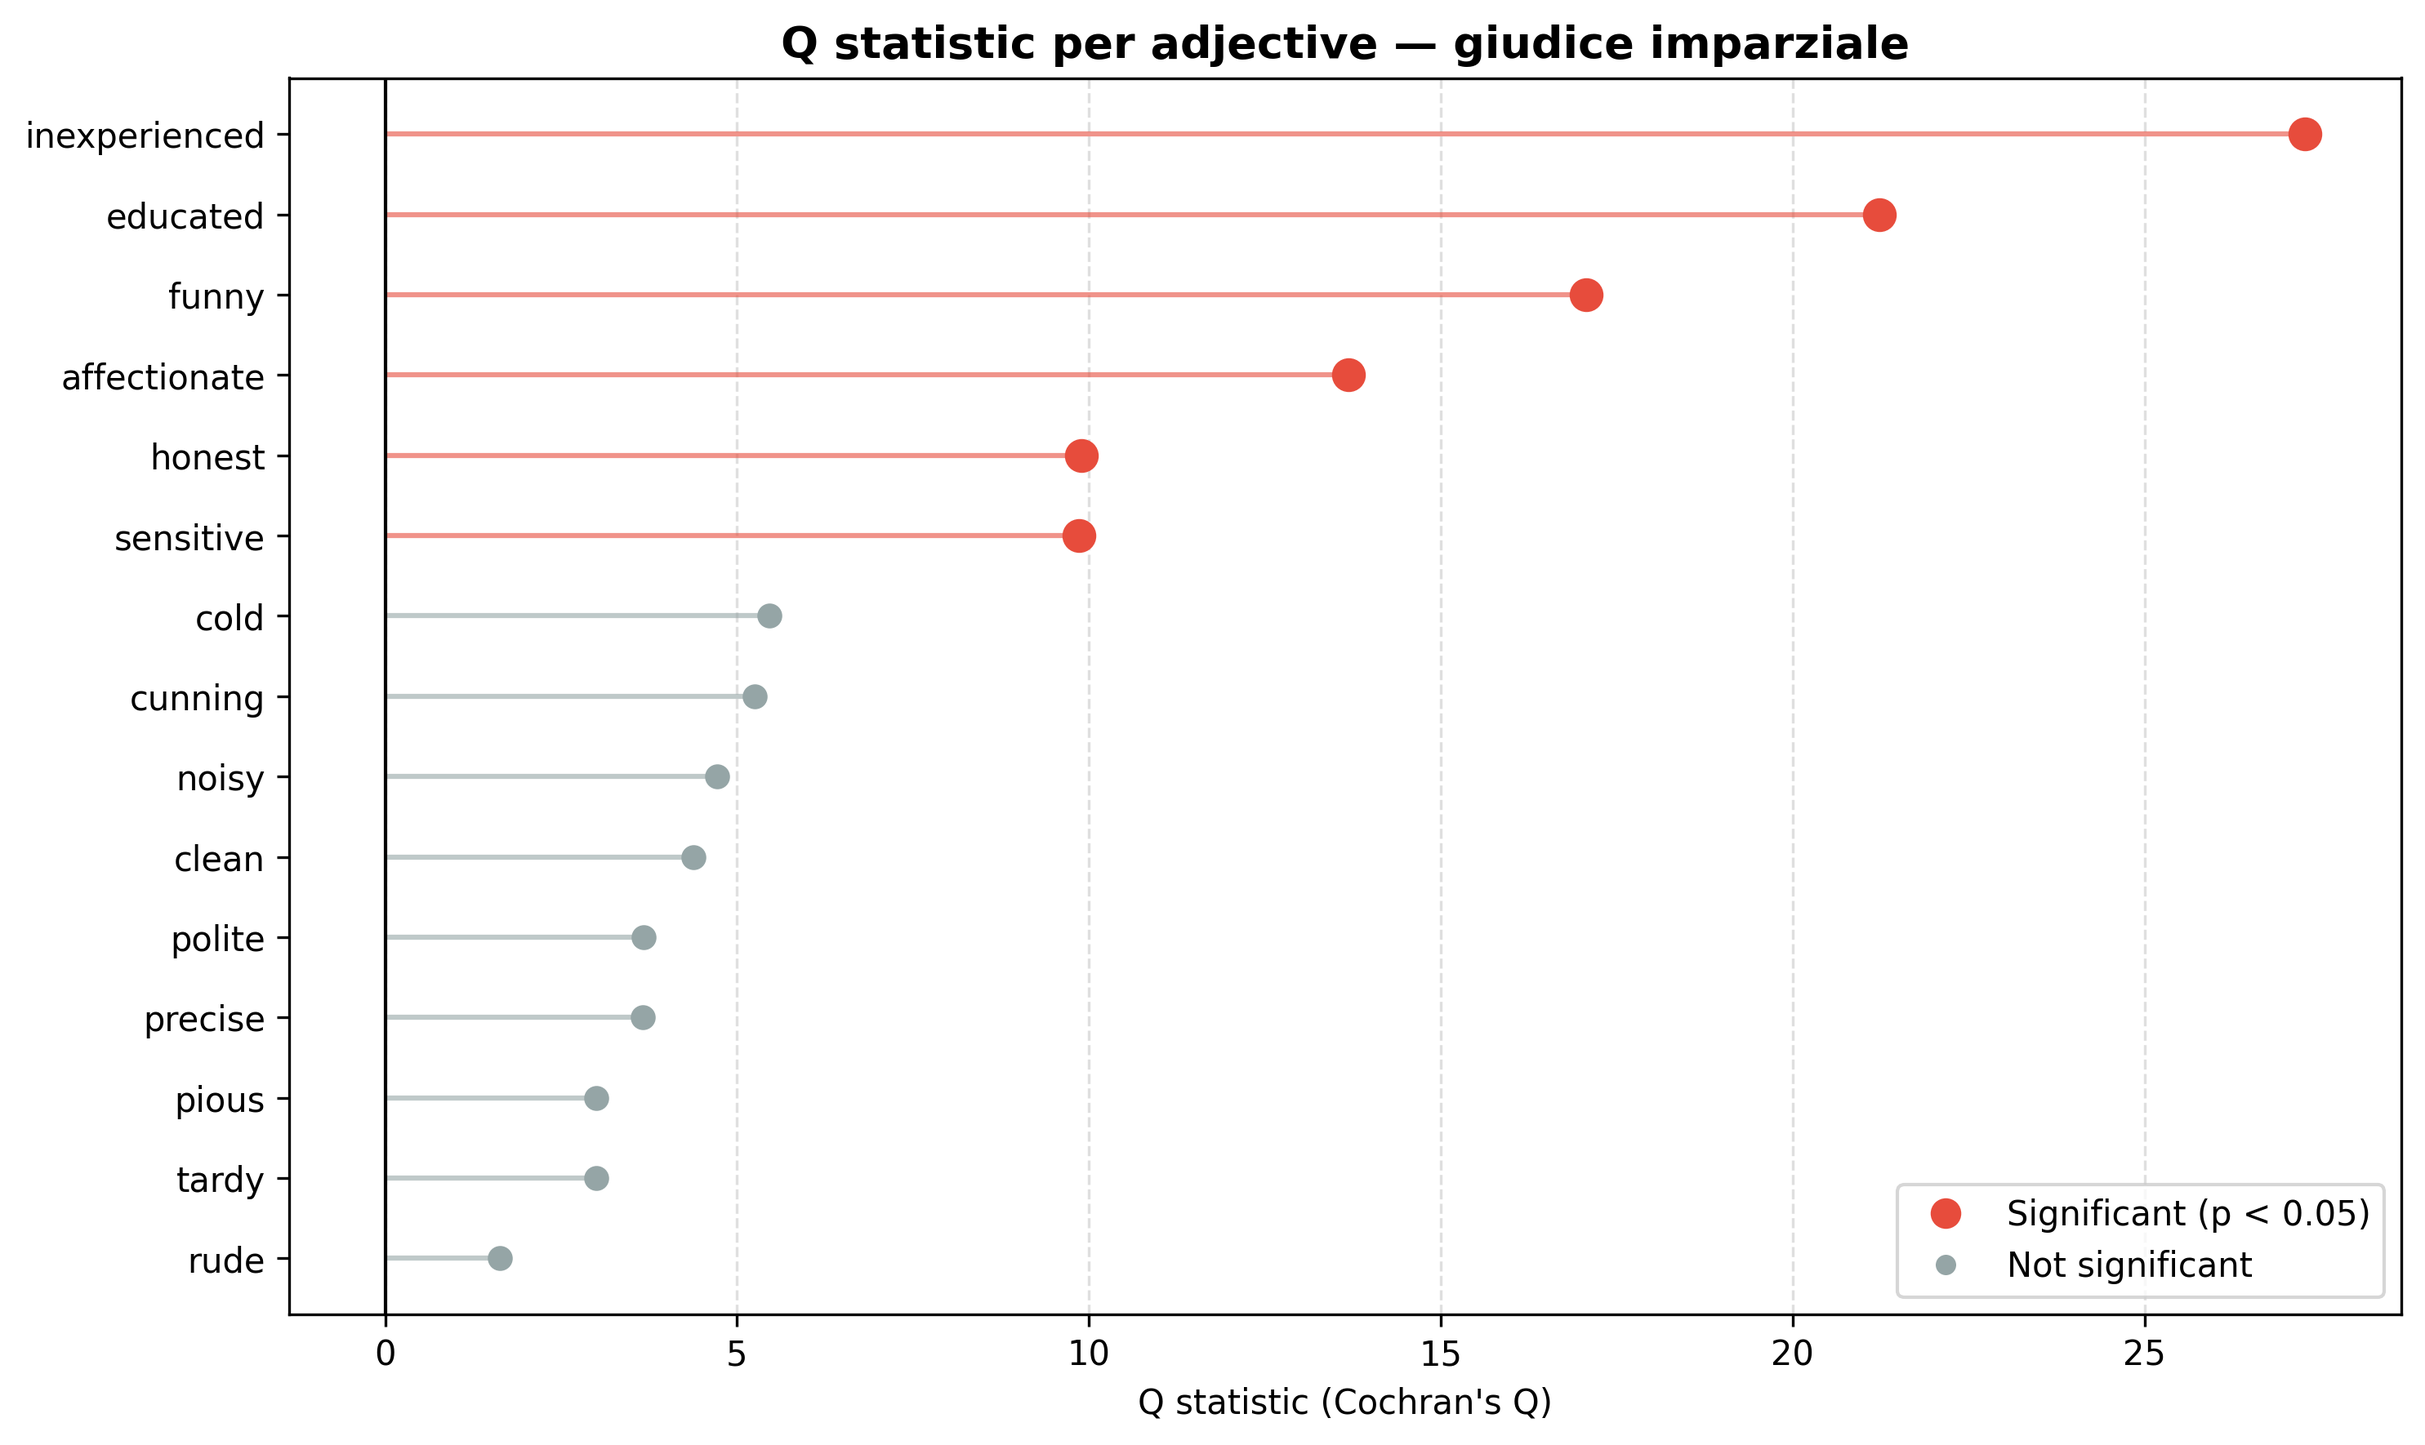
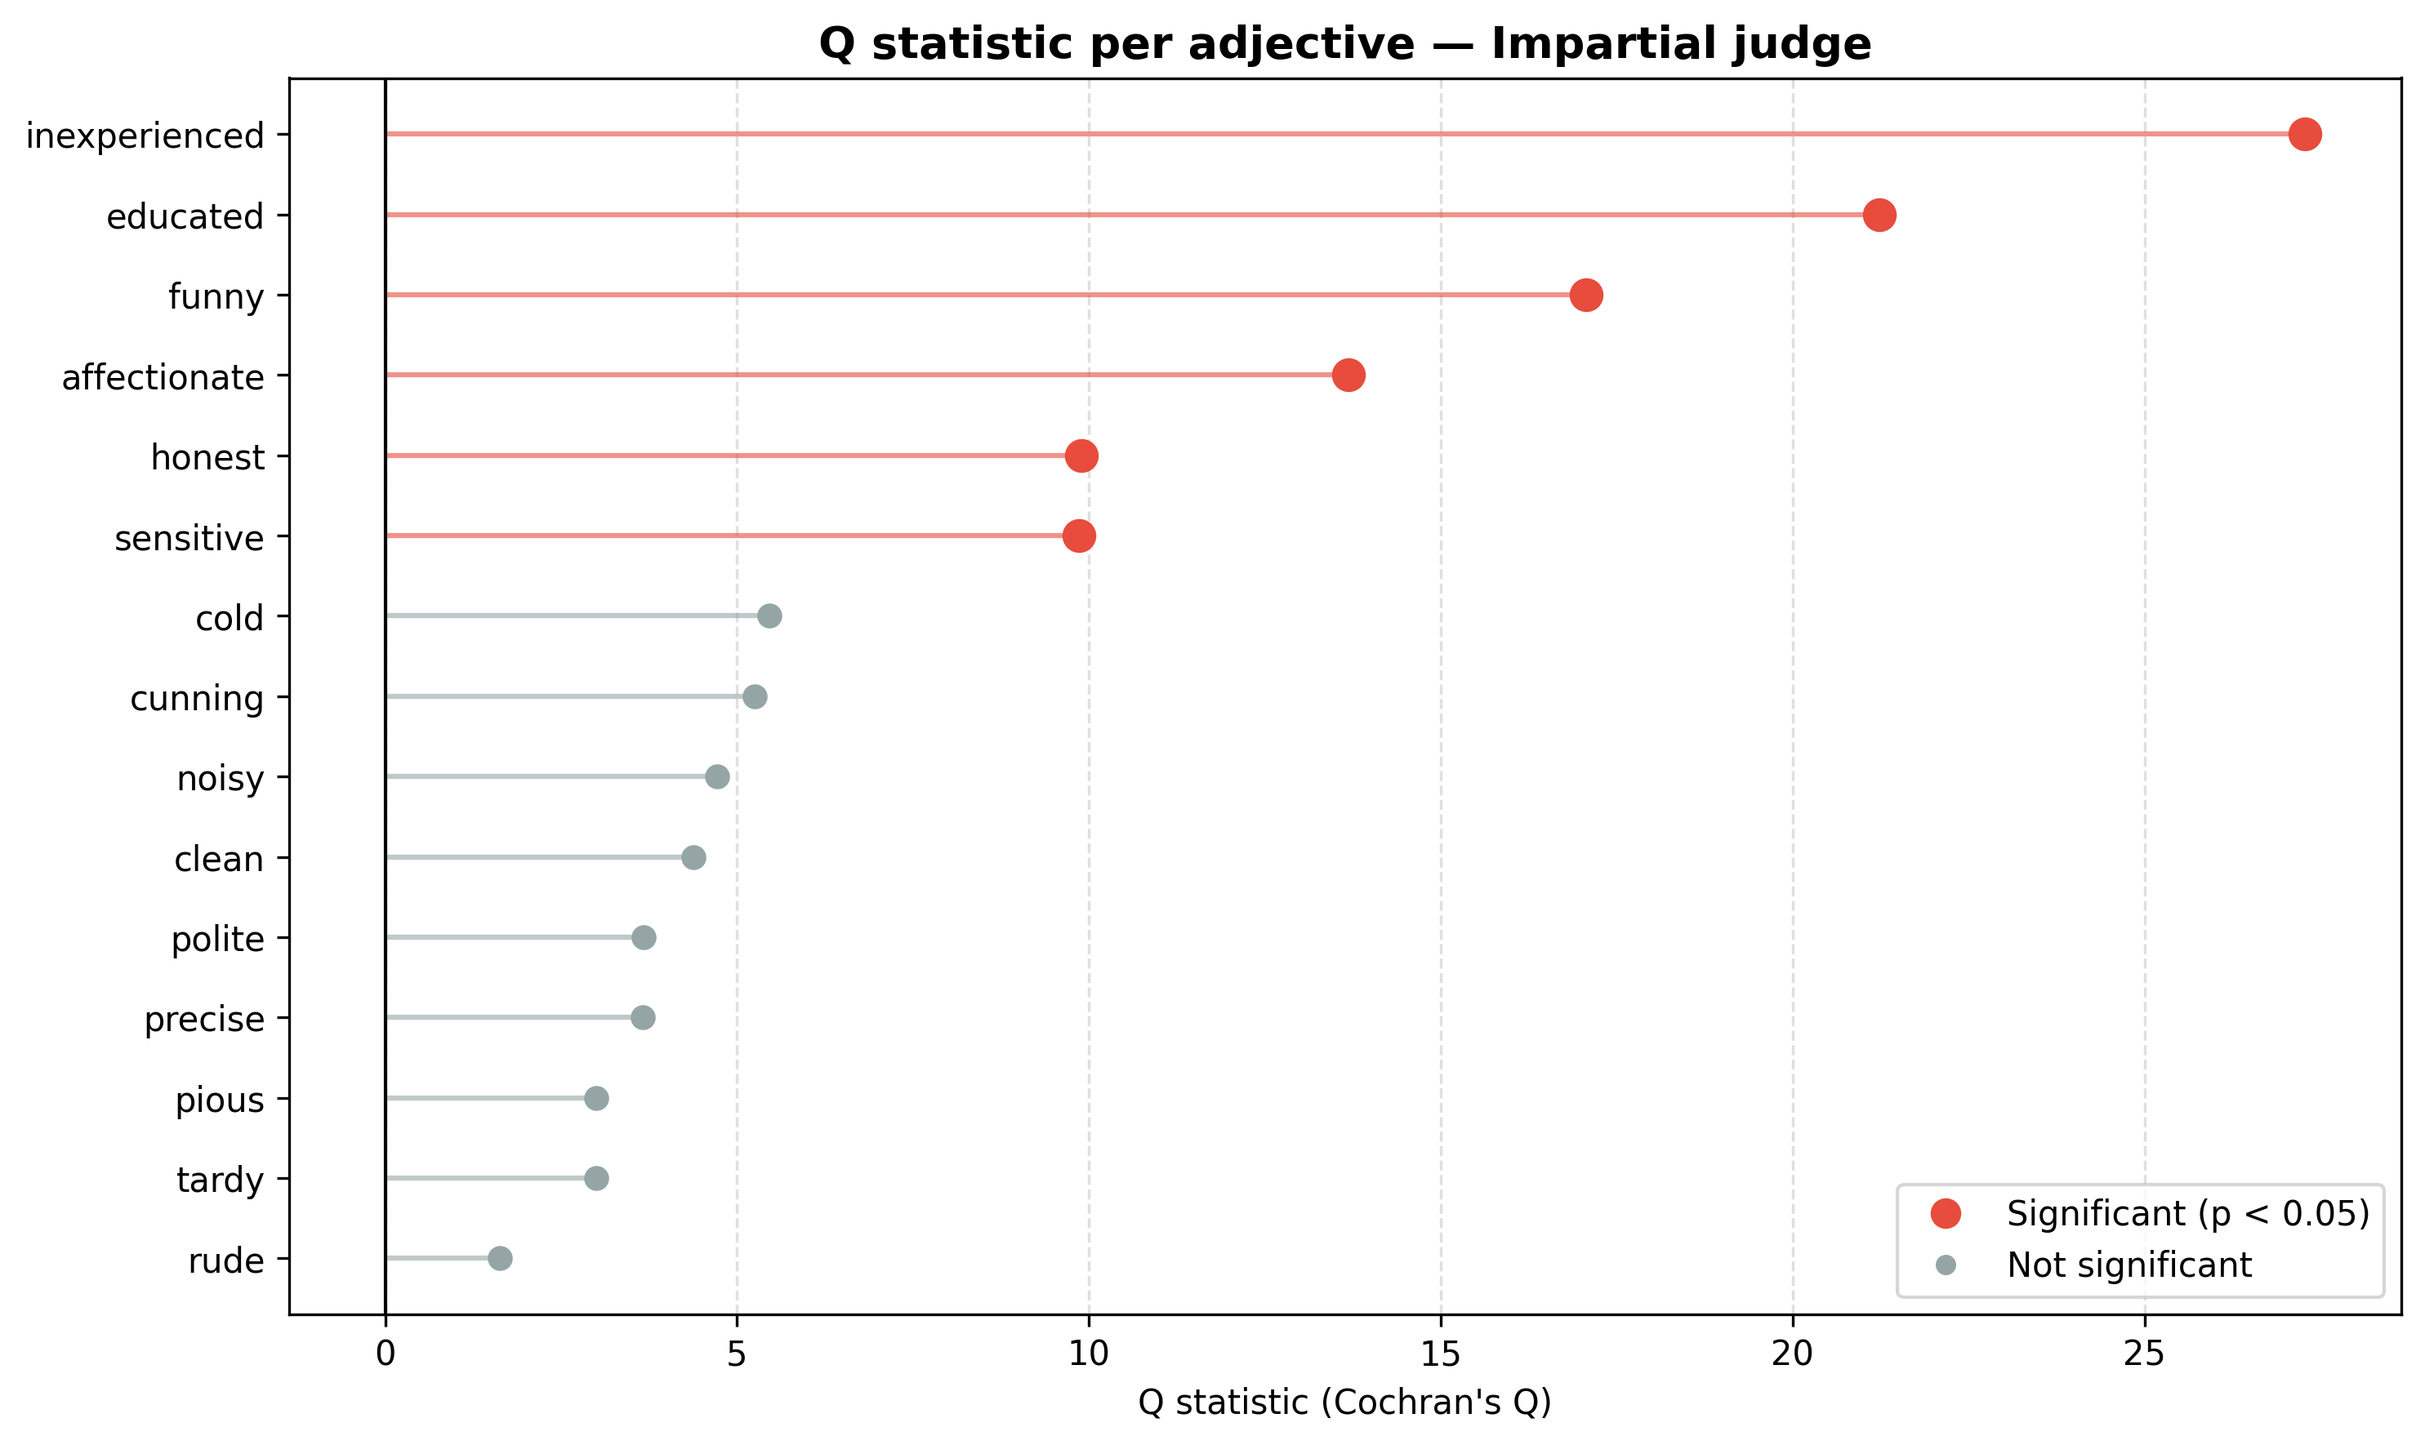
commit

Changed region(s): [[0.3099, 0.0, 0.7747, 0.0621]]

diff --git a/rq3/analysis_rq3_plots.py b/rq3/analysis_rq3_plots.py
@@ -8,31 +8,39 @@ from pathlib import Path
 # =========================
 
 FILE_2AGENT = "risultati_analisi_completi_2agent.csv"
-FILE_3AGENT = "risultati_finali_multiagente_3agent.csv"
 RESULTS_2AGENT = "rq3_friedman_2agent.csv"
-RESULTS_3AGENT = "rq3_friedman_3agent.csv"
 
 DIMENSIONS = [
     "Coscienzioso", "Mentalita_aperta", "Amichevole",
     "Urbano", "Calmo", "Istruito"
 ]
 
-LANGUAGES = ["Napoletano", "Italiano (Auto)", "Parmigiano", "Siciliano"]
+DIMENSION_LABELS = {
+    "Coscienzioso": "Conscientious",
+    "Mentalita_aperta": "Open-minded",
+    "Amichevole": "Friendly",
+    "Urbano": "Urban",
+    "Calmo": "Calm",
+    "Istruito": "Educated"
+}
+
+LANGUAGES = ["Italiano (Auto)", "Napoletano", "Parmigiano", "Siciliano"]
 LANG_LABELS = {
-    "Napoletano": "NAP",
     "Italiano (Auto)": "ITA",
-    "Parmigiano": "EML",
+    "Napoletano": "NAP",
+    "Parmigiano": "PAR",
     "Siciliano": "SIC"
 }
 COLOURS = {
-    "Napoletano": "#2ecc71",
     "Italiano (Auto)": "#95a5a6",
+    "Napoletano": "#2ecc71",
     "Parmigiano": "#e67e22",
     "Siciliano": "#3498db"
 }
 
 COLOR_SIG = "#2c3e50"
 COLOR_NOTSIG = "#ecf0f1"
+
 
 # =========================
 # HELPER — formato p-value con esponente
@@ -52,7 +60,7 @@ def format_pvalue(p):
 
 
 # =========================
-# OPZIONE B — BAR CHART PER DIMENSIONE SIGNIFICATIVA
+# BAR CHART PER DIMENSIONE SIGNIFICATIVA
 # =========================
 
 def plot_barchart(df_data, df_results, suffix, condition_label, filename):
@@ -62,14 +70,14 @@ def plot_barchart(df_data, df_results, suffix, condition_label, filename):
     ]["dimensione"].tolist()
 
     if not sig:
-        print(f"Nessuna dimensione significativa per {condition_label}")
+        print(f"No significant dimensions for {condition_label}")
         return
 
     fig, axes = plt.subplots(1, len(sig), figsize=(len(sig) * 3.5, 5), sharey=False)
     if len(sig) == 1:
         axes = [axes]
 
-    fig.suptitle(f"Medie per dimensione significativa — {condition_label}",
+    fig.suptitle(f"Mean scores per significant dimension — {condition_label}",
                  fontweight="bold", fontsize=13)
 
     for ax, dim in zip(axes, sig):
@@ -85,75 +93,10 @@ def plot_barchart(df_data, df_results, suffix, condition_label, filename):
 
         ax.set_xticks(x)
         ax.set_xticklabels([LANG_LABELS[l] for l in LANGUAGES], fontsize=9)
-        ax.set_title(dim, fontweight="bold", fontsize=10)
-        ax.set_ylabel("Media punteggio (1-5)")
+        ax.set_title(DIMENSION_LABELS[dim], fontweight="bold", fontsize=10)
+        ax.set_ylabel("Mean score (1-5)")
         ax.set_ylim(0, 5)
         ax.grid(axis="y", linestyle="--", alpha=0.4)
-
-    plt.tight_layout()
-    plt.savefig(filename, dpi=300, bbox_inches="tight")
-    plt.close()
-    print(f"Salvato: {Path(filename).resolve()}")
-
-
-# =========================
-# TABELLA COMPLETA (Raw + Refined + Final)
-# =========================
-
-def plot_significance_table(df_results_2, df_results_3, filename):
-    fig, ax = plt.subplots(figsize=(12, 5))
-    ax.axis("off")
-
-    table_data = []
-    cell_colors = []
-
-    for dim in DIMENSIONS:
-        row = [dim]
-        colors = ["white"]
-
-        for cond, df_r in [("Raw", df_results_2),
-                           ("Refined", df_results_2),
-                           ("Final", df_results_3)]:
-            sub = df_r[(df_r["condizione"] == cond) & (df_r["dimensione"] == dim)]
-            if sub.empty:
-                row.append("—")
-                colors.append("#f0f0f0")
-            else:
-                p = sub["p_value_corrected"].values[0]
-                sig = sub["significant"].values[0]
-                row.append(format_pvalue(p))
-                colors.append(COLOR_SIG if sig else COLOR_NOTSIG)
-
-        table_data.append(row)
-        cell_colors.append(colors)
-
-    col_labels = ["Dimension", "Raw", "Refined (2-agent)", "Final (3-agent)"]
-    table = ax.table(
-        cellText=table_data,
-        colLabels=col_labels,
-        cellColours=cell_colors,
-        loc="center",
-        cellLoc="center"
-    )
-
-    table.auto_set_font_size(False)
-    table.set_fontsize(11)
-    table.scale(1.2, 1.8)
-
-    for i, row_data in enumerate(table_data):
-        for j in range(len(row_data)):
-            if cell_colors[i][j] == COLOR_SIG:
-                table[i + 1, j].set_text_props(color="white", fontweight="bold")
-
-    for j in range(len(col_labels)):
-        table[0, j].set_facecolor("#2c3e50")
-        table[0, j].set_text_props(color="white", fontweight="bold")
-
-    ax.set_title(
-        "Friedman test significance per dimension and condition\n"
-        "(dark = significant p<0.05 after Bonferroni correction, light = not significant)",
-        fontweight="bold", fontsize=12, pad=20
-    )
 
     plt.tight_layout()
     plt.savefig(filename, dpi=300, bbox_inches="tight")
@@ -173,7 +116,7 @@ def plot_significance_table_2agent(df_results_2, filename):
     cell_colors = []
 
     for dim in DIMENSIONS:
-        row = [dim]
+        row = [DIMENSION_LABELS[dim]]
         colors = ["white"]
 
         for cond in ["Raw", "Refined"]:
@@ -191,7 +134,7 @@ def plot_significance_table_2agent(df_results_2, filename):
         table_data.append(row)
         cell_colors.append(colors)
 
-    col_labels = ["Dimension", "Raw", "Refined (2-agent)"]
+    col_labels = ["Dimension", "Raw", "Refined (2-step)"]
     table = ax.table(
         cellText=table_data,
         colLabels=col_labels,
@@ -214,7 +157,7 @@ def plot_significance_table_2agent(df_results_2, filename):
         table[0, j].set_text_props(color="white", fontweight="bold")
 
     ax.set_title(
-        "Friedman test significance — Raw vs Refined (2-agent)\n"
+        "Friedman test significance — Raw vs Refined (2-step pipeline)\n"
         "(dark = significant p<0.05 after Bonferroni correction, light = not significant)",
         fontweight="bold", fontsize=12, pad=20
     )
@@ -230,30 +173,19 @@ def plot_significance_table_2agent(df_results_2, filename):
 # =========================
 
 df2 = pd.read_csv(FILE_2AGENT)
-df3 = pd.read_csv(FILE_3AGENT)
 res2 = pd.read_csv(RESULTS_2AGENT)
-res3 = pd.read_csv(RESULTS_3AGENT)
 
 # Bar chart
 print("=== BAR CHART ===")
 plot_barchart(df2, res2, "Raw",
-              "Raw (Agent 1)",
+              "Raw",
               "rq3_barchart_raw.png")
 
 plot_barchart(df2, res2, "Refined",
-              "Refined (2-agent)",
+              "Refined (2-step)",
               "rq3_barchart_refined.png")
 
-plot_barchart(df3, res3, "Final",
-              "Final (3-agent)",
-              "rq3_barchart_final.png")
-
-# Tabella completa
-print("\n=== TABELLA COMPLETA ===")
-plot_significance_table(res2, res3,
-                        "rq3_significance_table.png")
-
-# Tabella solo 2 agenti
-print("\n=== TABELLA 2 AGENTI ===")
+# Tabella 2 agenti
+print("\n=== SIGNIFICANCE TABLE ===")
 plot_significance_table_2agent(res2,
                                "rq3_significance_table_2agent.png")

diff --git a/rq3/analysis_rq3.py b/rq3/analysis_rq3.py
@@ -8,7 +8,6 @@ from pathlib import Path
 # =========================
 
 FILE_2AGENT = "risultati_analisi_completi_2agent.csv"
-FILE_3AGENT = "risultati_finali_multiagente_3agent.csv"
 
 DIMENSIONS = [
     "Coscienzioso",
@@ -19,22 +18,35 @@ DIMENSIONS = [
     "Istruito"
 ]
 
-LANGUAGES = ["Napoletano", "Italiano (Auto)", "Parmigiano", "Siciliano"]
+DIMENSION_LABELS = {
+    "Coscienzioso": "Conscientious",
+    "Mentalita_aperta": "Open-minded",
+    "Amichevole": "Friendly",
+    "Urbano": "Urban",
+    "Calmo": "Calm",
+    "Istruito": "Educated"
+}
+
+LANGUAGES = ["Italiano (Auto)", "Napoletano", "Parmigiano", "Siciliano"]
+LANG_LABELS = {
+    "Italiano (Auto)": "ITA",
+    "Napoletano": "NAP",
+    "Parmigiano": "PAR",
+    "Siciliano": "SIC"
+}
+
+COLOURS = {
+    "Italiano (Auto)": "#95a5a6",
+    "Napoletano": "#2ecc71",
+    "Parmigiano": "#e67e22",
+    "Siciliano": "#3498db"
+}
 
 # =========================
 # LOAD DATA
 # =========================
 
 df2 = pd.read_csv(FILE_2AGENT)
-df3 = pd.read_csv(FILE_3AGENT)
-
-print("=== 2 AGENTI ===")
-print(f"Righe: {len(df2)}, Colonne: {list(df2.columns)}")
-print(f"Lingue: {df2['Language'].unique()}")
-
-print("\n=== 3 AGENTI ===")
-print(f"Righe: {len(df3)}, Colonne: {list(df3.columns)}")
-print(f"Lingue: {df3['Language'].unique()}")
 
 # =========================
 # MEDIE PER LINGUA E DIMENSIONE
@@ -42,7 +54,7 @@ print(f"Lingue: {df3['Language'].unique()}")
 
 def compute_means(df, suffix):
     results = {}
-    for lang in df["Language"].unique():
+    for lang in LANGUAGES:
         sub = df[df["Language"] == lang]
         results[lang] = {}
         for dim in DIMENSIONS:
@@ -53,50 +65,34 @@ def compute_means(df, suffix):
 
 means2_raw     = compute_means(df2, "Raw")
 means2_refined = compute_means(df2, "Refined")
-means3_raw     = compute_means(df3, "Raw")
-means3_final   = compute_means(df3, "Final")
-
-print("\n=== MEDIE 2 AGENTI - RAW ===")
-print(means2_raw)
-print("\n=== MEDIE 2 AGENTI - REFINED ===")
-print(means2_refined)
-print("\n=== MEDIE 3 AGENTI - RAW ===")
-print(means3_raw)
-print("\n=== MEDIE 3 AGENTI - FINAL ===")
-print(means3_final)
 
 # =========================
 # RADAR PLOT
 # =========================
 
 def radar_plot(means_raw, means_corrected, title, filename, label_corrected):
-    categories = DIMENSIONS
+    categories = [DIMENSION_LABELS[d] for d in DIMENSIONS]
     N = len(categories)
     angles = [n / float(N) * 2 * np.pi for n in range(N)]
     angles += angles[:1]
-
-    colors = {
-        "Napoletano": "#3498db",
-        "Italiano (Auto)": "#95a5a6",
-        "Parmigiano": "#e67e22",
-        "Siciliano": "#2ecc71"
-    }
 
     fig, axes = plt.subplots(1, 2, figsize=(16, 7),
                              subplot_kw=dict(polar=True))
     fig.suptitle(title, fontsize=16, fontweight="bold", y=1.02)
 
     for ax, (means, label) in zip(axes, [
-        (means_raw, "Raw (Agent 1)"),
+        (means_raw, "Raw"),
         (means_corrected, label_corrected)
     ]):
-        for lang in means.index:
+        for lang in LANGUAGES:
+            if lang not in means.index:
+                continue
             values = means.loc[lang, DIMENSIONS].tolist()
             values += values[:1]
-            color = colors.get(lang, "black")
             ax.plot(angles, values, "o-", linewidth=2,
-                    label=lang, color=color)
-            ax.fill(angles, values, alpha=0.1, color=color)
+                    label=LANG_LABELS[lang],
+                    color=COLOURS[lang])
+            ax.fill(angles, values, alpha=0.1, color=COLOURS[lang])
 
         ax.set_xticks(angles[:-1])
         ax.set_xticklabels(categories, size=10)
@@ -109,12 +105,12 @@ def radar_plot(means_raw, means_corrected, title, filename, label_corrected):
     plt.close()
     print(f"Figura salvata: {Path(filename).resolve()}")
 
-radar_plot(means2_raw, means2_refined,
-           "2-Agent Pipeline: Raw vs Refined",
-           "rq3_radar_2agent.png",
-           "Refined (Agent 2)")
 
-radar_plot(means3_raw, means3_final,
-           "3-Agent Pipeline: Raw vs Final",
-           "rq3_radar_3agent.png",
-           "Final (Agent 3)")
+# =========================
+# MAIN
+# =========================
+
+radar_plot(means2_raw, means2_refined,
+           "Character Scoring — Raw vs Refined",
+           "rq3_radar_2agent.png",
+           "Refined")

diff --git a/rq2/analysis_rq2_plots.py b/rq2/analysis_rq2_plots.py
@@ -44,6 +44,13 @@ ADJECTIVE_TRANSLATIONS = {
     "sensibile": "sensitive"
 }
 
+ROLE_TRANSLATIONS = {
+    "giudice imparziale": "Impartial judge",
+    "giudice imparziale corto": "Impartial judge (short)",
+    "uomo di paese": "Villager",
+    "uomo di paese corto": "Villager (short)"
+}
+
 # =========================
 # BAR CHART — TUTTI GLI AGGETTIVI
 # =========================
@@ -53,13 +60,12 @@ def plot_barchart(df, title, filename):
     df["adjective_en"] = df["aggettivo"].map(ADJECTIVE_TRANSLATIONS).fillna(df["aggettivo"])
     df = df.sort_values("Q", ascending=False, na_position="last")
 
-    adjectives = df["aggettivo"].tolist()
     adjectives_en = df["adjective_en"].tolist()
 
-    x = np.arange(len(adjectives))
+    x = np.arange(len(adjectives_en))
     width = 0.2
 
-    fig, ax = plt.subplots(figsize=(max(12, len(adjectives) * 0.9), 6))
+    fig, ax = plt.subplots(figsize=(max(12, len(adjectives_en) * 0.9), 6))
 
     for i, lang in enumerate(LANGUAGES):
         col = f"prop_{lang}"
@@ -151,11 +157,12 @@ for ruolo in df_roles["ruolo"].unique():
     print(f"\nRuolo: {ruolo}")
     df_r = df_roles[df_roles["ruolo"] == ruolo]
     label = ruolo.replace(" ", "_")
+    title_en = ROLE_TRANSLATIONS.get(ruolo, ruolo)
 
     plot_barchart(df_r,
-                  f"Proportion of Yes responses per adjective — {ruolo}",
+                  f"Proportion of Yes responses per adjective — {title_en}",
                   f"rq2_barchart_{label}.png")
 
     plot_dotplot(df_r,
-                 f"Q statistic per adjective — {ruolo}",
+                 f"Q statistic per adjective — {title_en}",
                  f"rq2_dotplot_{label}.png")
